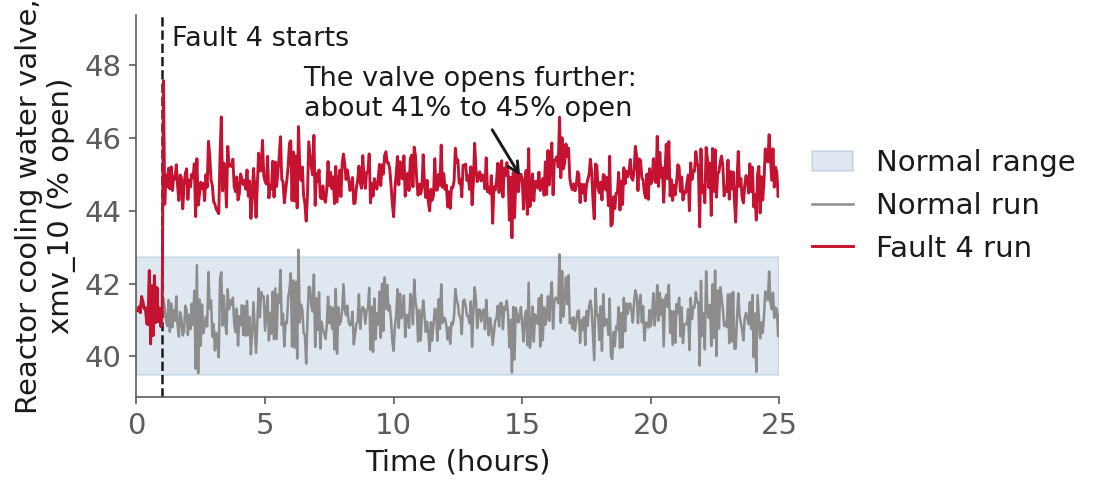
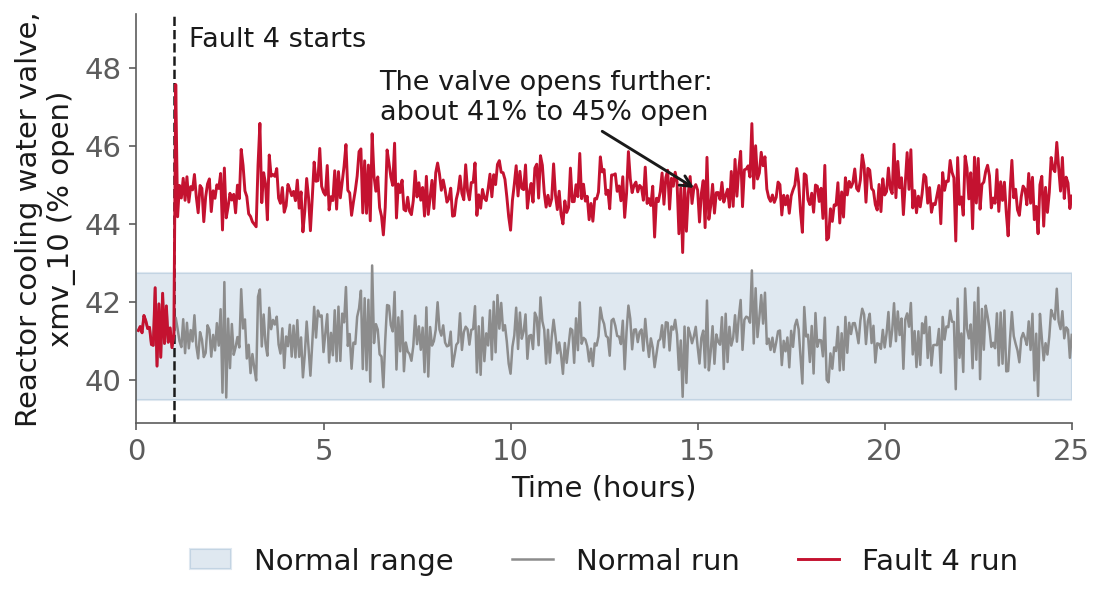
L10 deck: the TEP flowsheet beside the fault 4 and fault 14 plots
- Slide 11: the course's P&ID next to the valve signal, with a ring on the cooling water
  entering the reactor (fault 4) and one on the valve the controller opens (xmv_10).
- Fault 14 now takes two slides: the valve trace beside the flowsheet with a ring on the
  sticking valve, then the two cuts on the histograms.
- make_figures.py (new group "flowsheet") marks up Lecture 5's P&ID in place, as
  Lecture 7 does, and saves the two halves of the fault 14 figure separately for the deck.
  The fault 4 legend moves below the plot so it fits beside the flowsheet.

diff --git a/lectures/l10/figures/make_figures.py b/lectures/l10/figures/make_figures.py
@@ -317,8 +317,8 @@ def tep_fault4_signal_figure(ff, fa):
           f" fault {fault} {channel} {v1.min():.2f} to {v1.max():.2f}% open")
     lo = min(v0.min(), v1.min(), mu - 3 * sd) - 0.6
     hi = max(v0.max(), v1.max(), mu + 3 * sd) + 1.8
-    with plt.rc_context(fonts(14)):             # shown at w:900, legend included
-        fig, ax = plt.subplots(figsize=(7.6, 3.5))
+    with plt.rc_context(fonts(14)):             # shown at w:600 beside the flowsheet
+        fig, ax = plt.subplots(figsize=(7.6, 4.4))
         ax.axhspan(mu - 3 * sd, mu + 3 * sd, color=BLUE, alpha=0.14, zorder=0,
                   label="Normal range")
         ax.plot(t0, v0, color="0.55", lw=1.2, label="Normal run", zorder=2)
@@ -332,7 +332,7 @@ def tep_fault4_signal_figure(ff, fa):
                    color=INK, fontsize=13, va="top")
         ax.set(xlabel="Time (hours)", ylabel="Reactor cooling water valve,\nxmv_10 (% open)",
               xlim=(0, 25), ylim=(lo, hi))
-        ax.legend(loc="center left", bbox_to_anchor=(1.01, 0.5), handlelength=1.4)
+        ax.legend(loc="upper center", bbox_to_anchor=(0.5, -0.24), ncol=3, handlelength=1.4)
         fig.tight_layout()
         save(fig, "tep-fault4-signal.png")
 
@@ -535,27 +535,25 @@ def tep_fault14_figure(ff, fa):
     # Right half: the normal samples and the fault 14 samples on two rows with a shared
     # x axis and a linear scale each, so the narrow normal band and the wide fault spread
     # are both visible without a log axis. The band between the tree's two cuts is shaded.
-    with plt.rc_context(fonts(15)):             # shown at w:1150
-        fig = plt.figure(figsize=(13.2, 4.8))
-        gs = fig.add_gridspec(2, 2, width_ratios=[1.1, 1], hspace=0.28, wspace=0.16)
-        left = fig.add_subplot(gs[:, 0])
-        top_r = fig.add_subplot(gs[0, 1])
-        bot_r = fig.add_subplot(gs[1, 1], sharex=top_r)
-
-        left.plot(t1, v1t, color=CMU_RED, lw=1.0, label="Fault 14 run", zorder=2)
-        left.plot(t0, v0t, color="0.35", lw=1.7, label="Normal run", zorder=3)
-        left.axvline(onset_hr, color=INK, ls="--", lw=1.1)
+    def draw_trace(ax, legend_below=False):
+        ax.plot(t1, v1t, color=CMU_RED, lw=1.0, label="Fault 14 run", zorder=2)
+        ax.plot(t0, v0t, color="0.35", lw=1.7, label="Normal run", zorder=3)
+        ax.axvline(onset_hr, color=INK, ls="--", lw=1.1)
         top = max(v0t.max(), v1t.max())
         bot = min(v0t.min(), v1t.min())
-        left.text(onset_hr + 0.4, top + 0.6, "Fault 14 starts", color=INK, va="bottom", fontsize=14)
+        ax.text(onset_hr + 0.4, top + 0.6, "Fault 14 starts", color=INK, va="bottom", fontsize=14)
         k = int(np.argmin(np.abs(t1 - 20)))
-        left.annotate("Same average,\nmuch bigger swings", xy=(t1[k], v1t[k]),
-                     xytext=(onset_hr + 6.5, top + 2.6),
-                     arrowprops=dict(arrowstyle="->", color=INK, lw=1.3), fontsize=14, color=INK)
-        left.set(xlabel="Time (hours)", ylabel="Reactor cooling water valve,\nxmv_10 (% open)",
-                xlim=(0, 25), ylim=(bot - 1, top + 6.5))
-        left.legend(loc="lower center", bbox_to_anchor=(0.5, 1.0), ncol=2, handlelength=1.3)
+        ax.annotate("Same average,\nmuch bigger swings", xy=(t1[k], v1t[k]),
+                    xytext=(onset_hr + 6.5, top + 2.6),
+                    arrowprops=dict(arrowstyle="->", color=INK, lw=1.3), fontsize=14, color=INK)
+        ax.set(xlabel="Time (hours)", ylabel="Reactor cooling water valve,\nxmv_10 (% open)",
+               xlim=(0, 25), ylim=(bot - 1, top + 6.5))
+        if legend_below:
+            ax.legend(loc="upper center", bbox_to_anchor=(0.5, -0.24), ncol=2, handlelength=1.3)
+        else:
+            ax.legend(loc="lower center", bbox_to_anchor=(0.5, 1.0), ncol=2, handlelength=1.3)
 
+    def draw_cuts(top_r, bot_r):
         bins = np.linspace(26, 57, 94)
         rows = [(top_r, v_n, "0.5", "Normal runs: a narrow band"),
                 (bot_r, v_f, CMU_RED, "Fault 14 runs: spread out on both sides")]
@@ -570,18 +568,91 @@ def tep_fault14_figure(ff, fa):
             ax.set_title(label, loc="left", fontsize=15, pad=4)
         top_r.tick_params(labelbottom=False)
         top_r.annotate(f"A tree's two cuts:\n{lo_cut:.1f}% and {hi_cut:.1f}%",
-                      xy=(hi_cut, top_r.get_ylim()[1] * 0.62), xytext=(hi_cut + 3.2, top_r.get_ylim()[1] * 0.5),
-                      arrowprops=dict(arrowstyle="->", color=INK, lw=1.3), fontsize=14, color=INK, va="center")
+                       xy=(hi_cut, top_r.get_ylim()[1] * 0.62), xytext=(hi_cut + 3.2, top_r.get_ylim()[1] * 0.5),
+                       arrowprops=dict(arrowstyle="->", color=INK, lw=1.3), fontsize=14, color=INK, va="center")
         y_arrow = bot_r.get_ylim()[1] * 0.72
         bot_r.annotate("", xy=(29.5, y_arrow), xytext=(lo_cut - 0.4, y_arrow),
-                      arrowprops=dict(arrowstyle="->", color=INK, lw=1.6))
+                       arrowprops=dict(arrowstyle="->", color=INK, lw=1.6))
         bot_r.annotate("", xy=(53.5, y_arrow), xytext=(hi_cut + 0.4, y_arrow),
-                      arrowprops=dict(arrowstyle="->", color=INK, lw=1.6))
+                       arrowprops=dict(arrowstyle="->", color=INK, lw=1.6))
         bot_r.text(48.4, y_arrow * 1.05, "Flagged as fault", ha="center", va="bottom", fontsize=14, color=INK)
         bot_r.text(34.0, y_arrow * 1.05, "Flagged as fault", ha="center", va="bottom", fontsize=14, color=INK)
         bot_r.set(xlabel="Reactor cooling water valve, xmv_10 (% open)", xlim=(26, 57))
+
+    # The notes: both halves side by side.
+    with plt.rc_context(fonts(15)):
+        fig = plt.figure(figsize=(13.2, 4.8))
+        gs = fig.add_gridspec(2, 2, width_ratios=[1.1, 1], hspace=0.28, wspace=0.16)
+        draw_trace(fig.add_subplot(gs[:, 0]))
+        top_r = fig.add_subplot(gs[0, 1])
+        draw_cuts(top_r, fig.add_subplot(gs[1, 1], sharex=top_r))
         fig.subplots_adjust(left=0.08, right=0.99, bottom=0.14, top=0.88)
         save(fig, "tep-fault14.png")
+
+    # The deck: fault 14 takes two slides, the trace beside the flowsheet, then the two cuts.
+    with plt.rc_context(fonts(14)):             # shown at w:600 beside the flowsheet
+        fig, ax = plt.subplots(figsize=(7.6, 4.4))
+        draw_trace(ax, legend_below=True)
+        fig.tight_layout()
+        save(fig, "tep-fault14-trace.png")
+    with plt.rc_context(fonts(15)):             # shown at w:900
+        fig = plt.figure(figsize=(9.0, 4.6))
+        gs = fig.add_gridspec(2, 1, hspace=0.32)
+        top_r = fig.add_subplot(gs[0])
+        draw_cuts(top_r, fig.add_subplot(gs[1], sharex=top_r))
+        fig.subplots_adjust(left=0.03, right=0.98, bottom=0.14, top=0.93)
+        save(fig, "tep-fault14-cuts.png")
+
+
+def tep_flowsheet_figures():
+    """Where faults 4 and 14 act on the plant: the course's own P&ID, marked up.
+
+    The base drawing is Lecture 5's tep-screenshot.png, read in place as Lecture 7 does
+    (P&ID from Lyu, Botcha, Kulkarni, Pagaria, Alves, Sunshine and Kitchin 2026). It is
+    cropped to the process units, with the analysers left out, and the labels sit in a
+    white margin on the right so they cover none of the drawing. Both faults act on the
+    reactor's cooling water loop:
+      fault 4   a step in the temperature of the cooling water entering the reactor; the
+                reactor temperature controller (TC 10) answers by opening the reactor
+                cooling water valve, xmv_10
+      fault 14  that same valve sticks
+    Coordinates are pixels of tep-screenshot.png (1908 x 1160), read off the drawing by
+    hand, so they move if that PNG is ever regenerated.
+    """
+    print("\n=== TEP flowsheet: where faults 4 and 14 act ===")
+    raw = HERE.parent.parent / "l05" / "figures" / "tep-screenshot.png"
+    if not raw.exists():
+        print("skipped the flowsheet figures (L5's tep-screenshot.png not found)")
+        return
+    img = plt.imread(raw)
+    x0, x1, y0, y1 = 290, 1395, 105, 945           # the process units, analysers left out
+    crop = img[y0:y1, x0:x1]
+    margin = 470                                    # white space on the right for the labels
+    h, w = crop.shape[0], crop.shape[1] + margin
+    valve, cw_in = (879 - x0, 641 - y0), (812 - x0, 834 - y0)
+
+    def figure(labels, name):
+        fig = plt.figure(figsize=(w / 100, h / 100), dpi=100)
+        ax = fig.add_axes([0, 0, 1, 1])
+        ax.imshow(crop, extent=(0, crop.shape[1], crop.shape[0], 0))
+        ax.set(xlim=(0, w), ylim=(h, 0))
+        ax.set_axis_off()
+        for xy, text_xy, text, color in labels:
+            ax.add_patch(plt.Circle(xy, 38, fill=False, ec=color, lw=5, zorder=4))
+            ax.annotate(text, xy=xy, xytext=text_xy, fontsize=30, color="white", weight="bold",
+                        ha="left", va="center", zorder=5,
+                        bbox=dict(boxstyle="round,pad=0.4", fc=color, ec="none"),
+                        arrowprops=dict(arrowstyle="-|>", color=color, lw=4, shrinkA=4, shrinkB=40,
+                                        mutation_scale=30, connectionstyle="arc3,rad=-0.1"))
+        fig.savefig(HERE / name, dpi=100)
+        plt.close(fig)
+        print(f"  wrote {name}")
+
+    figure([(valve, (crop.shape[1] + 30, 360), "xmv_10:\nthe valve\nopens further", BLUE),
+            (cw_in, (crop.shape[1] + 30, 680), "Fault 4:\nthe cooling\nwater gets\nwarmer", CMU_RED)],
+           "tep-flowsheet-fault4.png")
+    figure([(valve, (crop.shape[1] + 30, 470), "Fault 14:\nthis valve,\nxmv_10,\nsticks", CMU_RED)],
+           "tep-flowsheet-fault14.png")
 
 
 def _classifier_shape_dataset(seed=SEED, n=150):
@@ -738,6 +809,7 @@ def classification_figures():
         tep_fault4_signal_figure(ff, fa)
         tep_logistic_figure(ff, fa)
         tep_fault14_figure(ff, fa)
+        tep_flowsheet_figures()
         tep_figures(ff, fa)
         classifier_shapes_figure()
 
@@ -1093,14 +1165,16 @@ def fetch_optuna_logo():
 if __name__ == "__main__":
     import sys
 
-    groups = {"classification", "shapes", "search", "widgets", "recap", "logo"}
+    groups = {"classification", "shapes", "flowsheet", "search", "widgets", "recap", "logo"}
     want = set(sys.argv[1:]) or groups
     unknown = want - groups
     if unknown:
         sys.exit(f"unknown group(s) {sorted(unknown)}; the groups are {sorted(groups)}")
     if "classification" in want:
         classification_figures()
-    elif "shapes" in want:                      # the model-shapes figure and its deck frames only
+    elif "flowsheet" in want:                   # the marked-up P&ID only, no TEP data needed
+        tep_flowsheet_figures()
+    if "shapes" in want and "classification" not in want:   # the model-shapes figure and its frames
         with warnings.catch_warnings(), plt.rc_context(CLASSIFICATION_STYLE):
             warnings.simplefilter("ignore")
             classifier_shapes_figure()

diff --git a/lectures/l10/slides.md b/lectures/l10/slides.md
@@ -245,6 +245,8 @@ threshold turns it into a class.
 .plant-grid p { margin: 0; }
 section p.plant-lead { font-size: 0.8em; margin: 0 0 0.2em; }
 section p.plant-note { font-size: 0.7em; text-align: center; margin: 0.1em 0 0; }
+.plant-row { display: grid; grid-template-columns: 1fr 1.07fr; gap: 0.6em; align-items: center; margin-top: 0.2em; }
+.plant-row img { width: 100%; display: block; }
 </style>
 
 <p class="plant-lead">The Tennessee Eastman process (TEP), the simulated plant from Lecture 5 on. The question: <b>is the plant faulty right now?</b></p>
@@ -261,9 +263,12 @@ section p.plant-note { font-size: 0.7em; text-align: center; margin: 0.1em 0 0; 
 
 </div>
 
-![w:740](figures/tep-fault4-signal.png)
+<div class="plant-row">
+<img src="figures/tep-fault4-signal.png" alt="">
+<img src="figures/tep-flowsheet-fault4.png" alt="">
+</div>
 
-<p class="plant-note">Fault 4: the cooling water entering the reactor gets warmer, so the controller opens the cooling water valve, <code>xmv_10</code>, further.</p>
+<p class="plant-note">Fault 4: the cooling water entering the reactor gets warmer, so the controller opens the cooling water valve, <code>xmv_10</code>, further. <span class="source">P&amp;ID: <a href="https://chemrxiv.org/doi/abs/10.26434/chemrxiv.10001628/v1">Lyu et al. (2026)</a></span></p>
 
 <!--
 One channel and one fault first: the valve sits near 41% open in normal runs and near 45%
@@ -365,13 +370,33 @@ fault 4 runs 44.9%, and they barely overlap. The one mistake is a single false a
 
 ## Classification, fault 14
 
-<p class="plant-lead"><b>Fault 14</b>: the same valve <b>sticks</b>. It swings far open and far closed, around the same average.</p>
-
 <style scoped>
-section p.plant-lead { font-size: 0.8em; margin: 0 0 0.2em; }
+section p.plant-lead { font-size: 0.8em; margin: 0 0 0.3em; }
+.plant-row { display: grid; grid-template-columns: 1fr 1.07fr; gap: 0.6em; align-items: center; margin-top: 0.2em; }
+.plant-row img { width: 100%; display: block; }
 </style>
 
-![w:1080](figures/tep-fault14.png)
+<p class="plant-lead"><b>Fault 14</b>: the same valve <b>sticks</b>. The controller pushes, the valve jumps too far, the controller pushes back: big swings around the same average.</p>
+
+<div class="plant-row">
+<img src="figures/tep-fault14-trace.png" alt="">
+<img src="figures/tep-flowsheet-fault14.png" alt="">
+</div>
+
+<span class="source">P&amp;ID: <a href="https://chemrxiv.org/doi/abs/10.26434/chemrxiv.10001628/v1">Lyu et al. (2026)</a></span>
+
+<!--
+Stiction: friction holds the valve until the push breaks it free, then it overshoots, and the
+loop settles into an oscillation. The controller still holds the reactor temperature on
+average, so the mean stays near 41% open. xmv_10 is the command to the valve, so these swings
+are the controller fighting the stuck valve.
+-->
+
+---
+
+## Classification, fault 14, one cut or two
+
+![w:820](figures/tep-fault14-cuts.png)
 
 <div class="readbox" data-marpit-fragment>
 
@@ -380,8 +405,8 @@ The fault samples fall on **both sides** of the normal band. One straight cut ca
 </div>
 
 <!--
-Left panel: same average, much bigger swings. Right panel: the normal samples sit in a narrow
-band, the fault 14 samples spread from about 29% to 54%. A tree of depth 8 catches 99.7%.
+The normal samples sit in a narrow band, the fault 14 samples spread from about 29% to 54%.
+A tree of depth 8 catches 99.7%.
 -->
 
 ---
